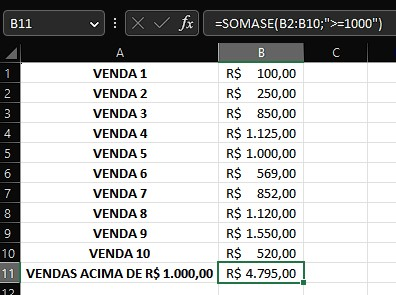
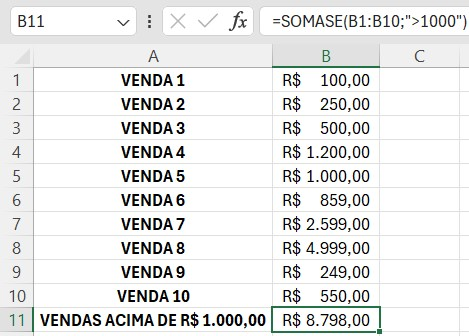
update SOMASE content

diff --git a/_posts/2023-02-01-4-funcao-somase-excel.md b/_posts/2023-02-01-4-funcao-somase-excel.md
@@ -32,7 +32,7 @@ A sintaxe básica da função **SOMASE** é a seguinte:
 Vamos supor que você tenha uma lista de vendas mensais e deseja somar apenas as vendas que excedem R$1.000. A fórmula seria:
 
 ```
-=SOMASE(B1:B10;">=1000")
+=SOMASE(B1:B10;">1000")
 ```
 
 ![](https://github.com/mariopuebla17/blog/blob/main/_images/202302/excel12.jpg?raw=true)  
